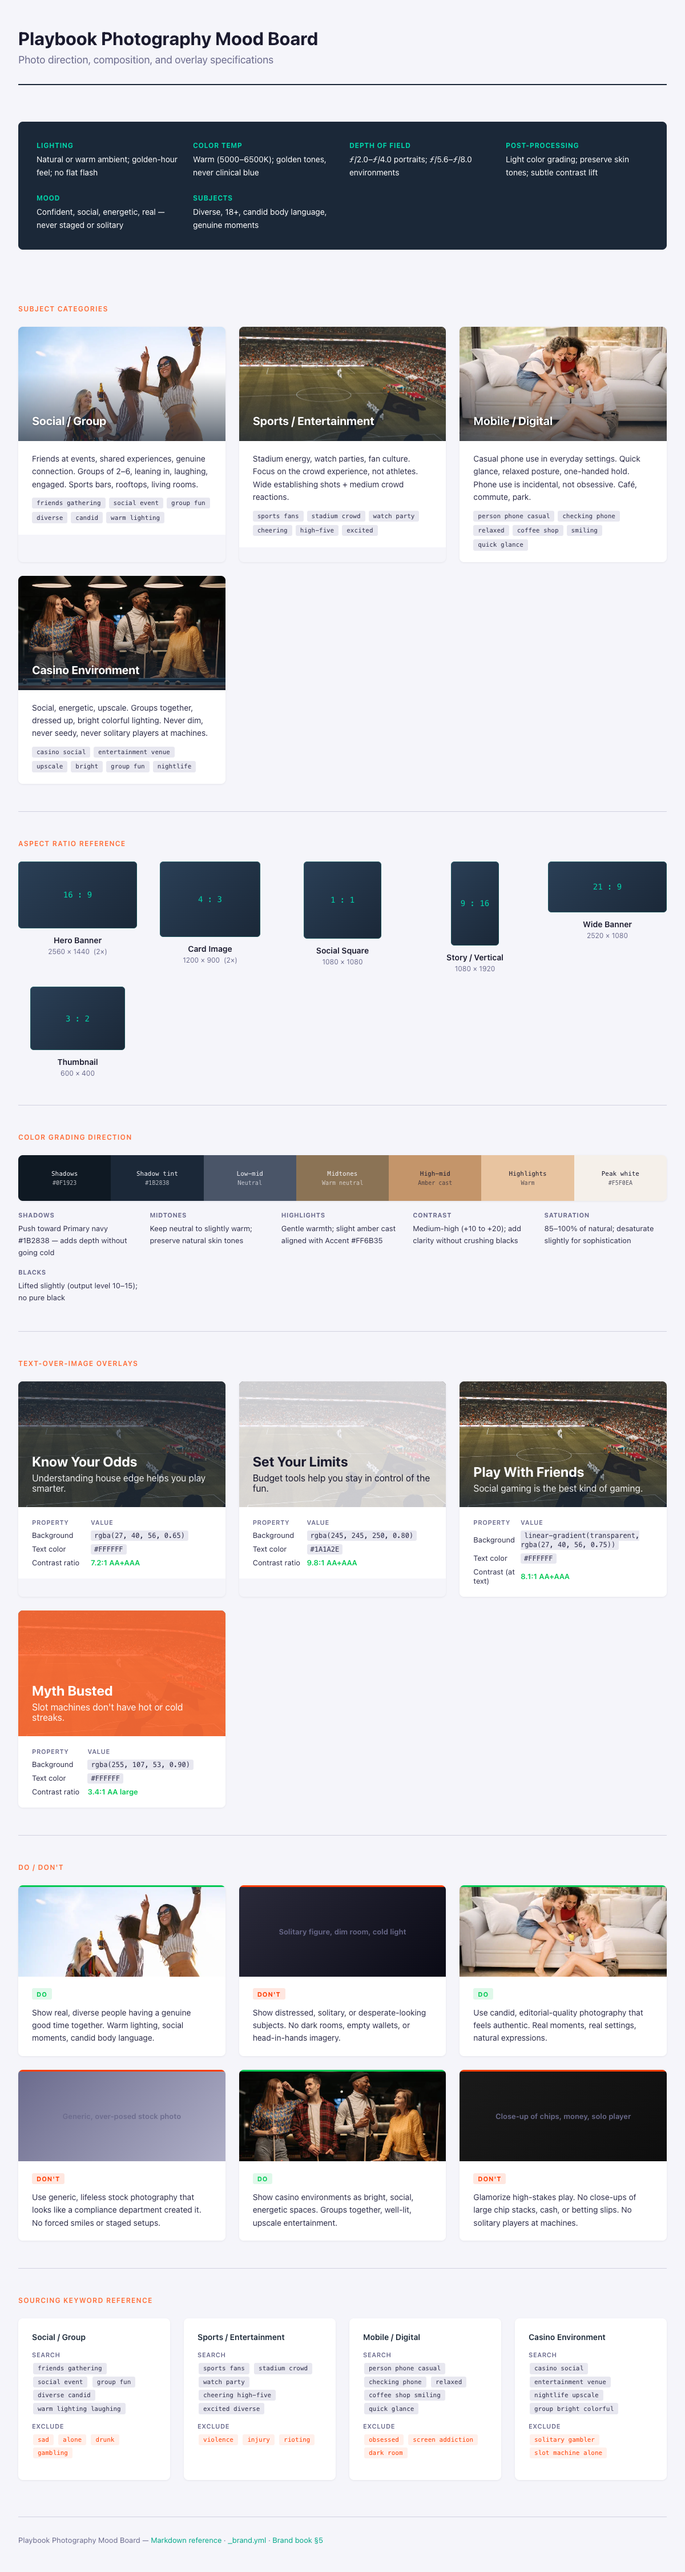
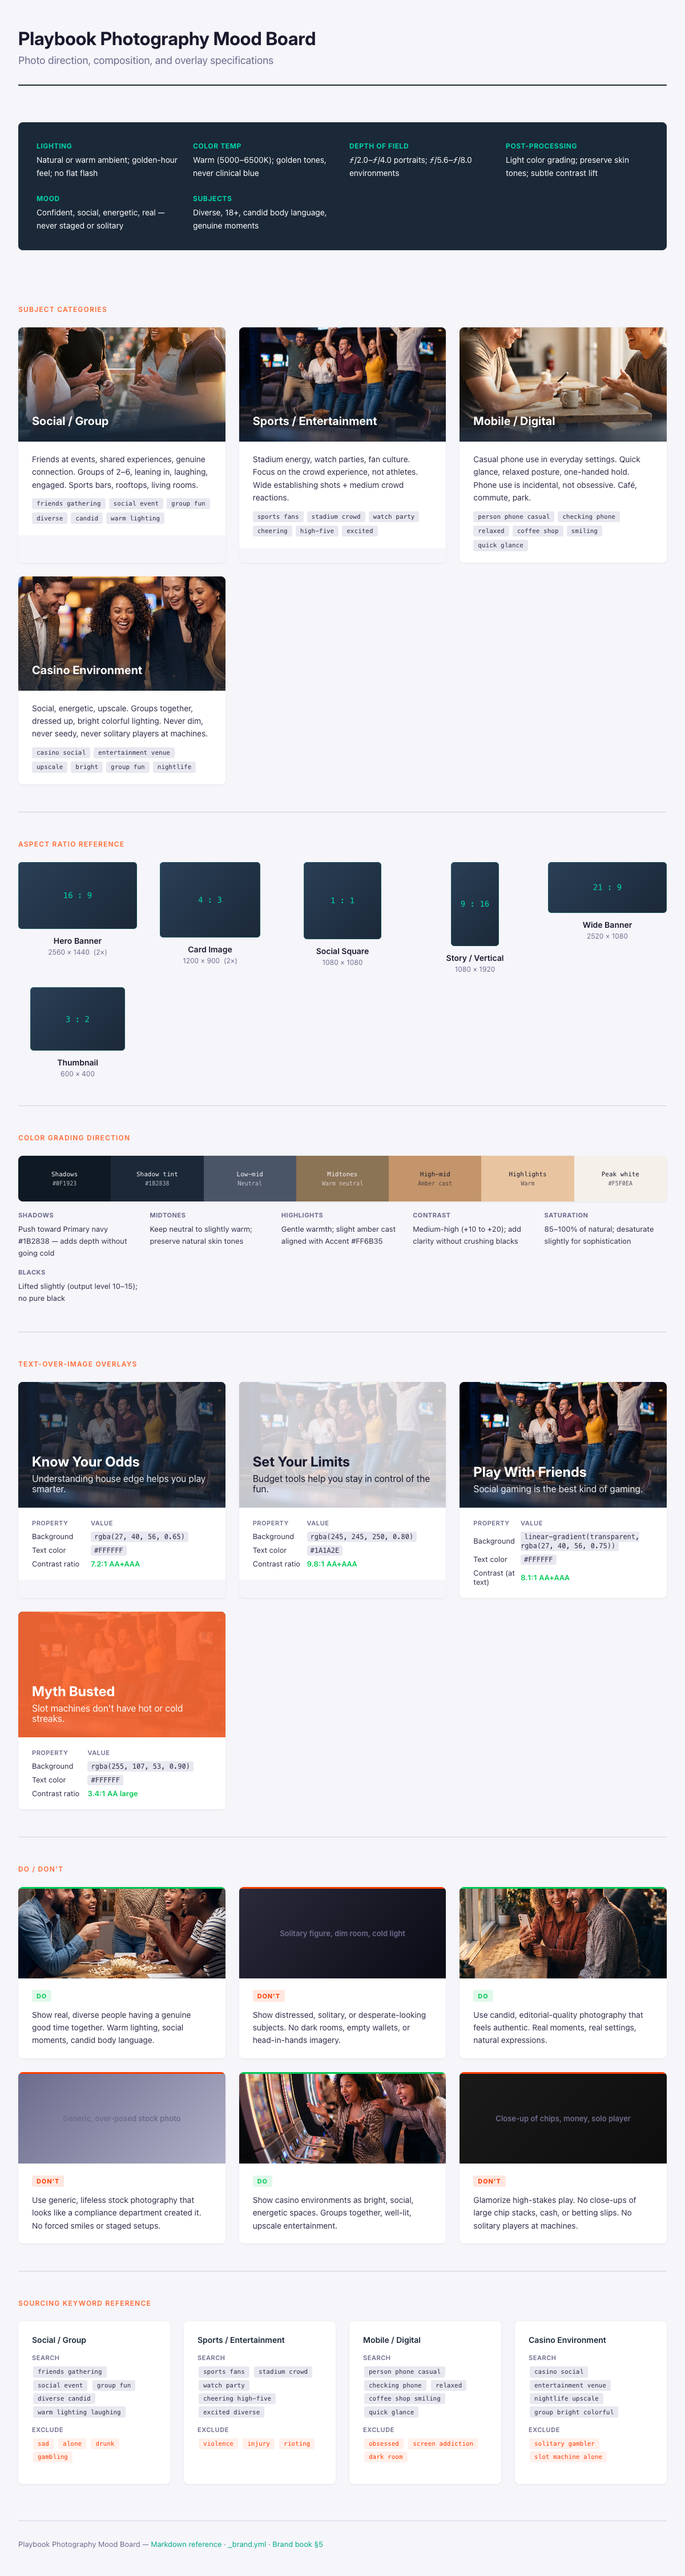
Replace stock reference imagery with owned generated examples
The photography guide's do/don't examples linked third-party Pexels stock,
which the repo neither controls nor licenses. Replace with AI-generated
images owned outright, art-directed to the spec itself.

- References are now controlled pairs: same scene, one variable changed
  (lighting intent; social vs. solitary framing), making each guideline the
  only difference between the good and bad example.
- Added a social-vs-solitary reference pair for the most important subject
  rule.
- mood-board.html now pulls category/overlay/do-card imagery from the owned
  19-series library instead of Pexels hotlinks.
- photography.md captions updated; references/PROMPTS.md documents every
  generation prompt so the set is reproducible and extendable on fork.

No stock licensing now applies to any imagery in the photography guide.

diff --git a/visual-identity/photography/mood-board.html b/visual-identity/photography/mood-board.html
@@ -168,16 +168,16 @@
       background: linear-gradient(to top, rgba(27, 40, 56, 0.7) 0%, transparent 60%);
     }
     .cat-social {
-      background-image: url('https://images.pexels.com/photos/5935207/pexels-photo-5935207.jpeg?auto=compress&cs=tinysrgb&w=800');
+      background-image: url('../../collateral/render/photos/poster-19g.jpg');
     }
     .cat-sports {
-      background-image: url('https://images.pexels.com/photos/3131405/pexels-photo-3131405.jpeg?auto=compress&cs=tinysrgb&w=800');
+      background-image: url('../../collateral/render/photos/poster-19c.jpg');
     }
     .cat-mobile {
-      background-image: url('https://images.pexels.com/photos/3764496/pexels-photo-3764496.jpeg?auto=compress&cs=tinysrgb&w=800');
+      background-image: url('../../collateral/render/photos/poster-19f.jpg');
     }
     .cat-casino {
-      background-image: url('https://images.pexels.com/photos/7404655/pexels-photo-7404655.jpeg?auto=compress&cs=tinysrgb&w=800');
+      background-image: url('../../collateral/render/photos/poster-19a.jpg');
     }
 
     /* ─── Aspect ratio reference ─────────────── */
@@ -250,7 +250,7 @@
       position: relative;
     }
     .overlay-demo-bg {
-      background: url('https://images.pexels.com/photos/3131405/pexels-photo-3131405.jpeg?auto=compress&cs=tinysrgb&w=800') center / cover no-repeat;
+      background: url('../../collateral/render/photos/poster-19c.jpg') center / cover no-repeat;
     }
 
     /* Dark overlay */
@@ -814,7 +814,7 @@
 
     <div class="dodont-grid">
       <div class="dodont-card dodont-do">
-        <div class="dodont-visual" style="background: url('https://images.pexels.com/photos/5935207/pexels-photo-5935207.jpeg?auto=compress&cs=tinysrgb&w=600') center / cover no-repeat;">
+        <div class="dodont-visual" style="background: url('../../collateral/render/photos/poster-19d.jpg') center / cover no-repeat;">
         </div>
         <div class="dodont-body">
           <span class="dodont-badge">Do</span>
@@ -833,7 +833,7 @@
       </div>
 
       <div class="dodont-card dodont-do">
-        <div class="dodont-visual" style="background: url('https://images.pexels.com/photos/3764496/pexels-photo-3764496.jpeg?auto=compress&cs=tinysrgb&w=600') center / cover no-repeat;">
+        <div class="dodont-visual" style="background: url('../../collateral/render/photos/poster-19b.jpg') center / cover no-repeat;">
         </div>
         <div class="dodont-body">
           <span class="dodont-badge">Do</span>
@@ -852,7 +852,7 @@
       </div>
 
       <div class="dodont-card dodont-do">
-        <div class="dodont-visual" style="background: url('https://images.pexels.com/photos/7404655/pexels-photo-7404655.jpeg?auto=compress&cs=tinysrgb&w=600') center / cover no-repeat;">
+        <div class="dodont-visual" style="background: url('../../collateral/render/photos/poster-19e.jpg') center / cover no-repeat;">
         </div>
         <div class="dodont-body">
           <span class="dodont-badge">Do</span>

diff --git a/visual-identity/photography/references/PROMPTS.md b/visual-identity/photography/references/PROMPTS.md
@@ -1,0 +1,52 @@
+# Photography Reference Prompts
+
+Every reference image in [`photography.md`](../photography.md) is AI-generated
+(Google `gemini-3-pro-image`, 4:3, 1K) and owned outright — no stock licensing.
+The do/don't examples are controlled pairs: the same scene with exactly one
+property changed (lighting intent, or social vs. solitary framing), so the
+guideline being taught is the only variable.
+
+To regenerate, rerun the prompt and save over the same filename.
+
+## cinematic-lighting-good.jpg
+
+```
+Documentary photograph of two friends — a man and a woman in their mid-thirties — standing at a row of modern slot machines in an upscale casino at night, seen from a three-quarter side angle, both laughing at something the man just said, fully engaged with each other and not with the camera. Strictly candid: nobody looks at the camera, nobody poses, this is not a portrait. Cinematic editorial lighting is the entire subject of this image: one clear warm directional key light models both faces, the environment falls away into colorful defocused bokeh, deliberate controlled contrast, perfectly exposed skin tones, warm 5500K grade with deep navy-tinted shadows and gently lifted blacks. Both clearly adults. No alcoholic drinks, no readable text, numbers, or logos anywhere.
+```
+
+## dim-lighting-bad.jpg
+
+```
+Documentary photograph of two friends — a man and a woman in their mid-thirties — standing at a row of slot machines in a casino at night, seen from a three-quarter side angle, chatting to each other, not looking at the camera. The same kind of scene a brand would want, but photographed badly on purpose: no key light at all, both faces underexposed and murky, flat uniform darkness with no visual hierarchy, muddy mixed fluorescent green-grey color cast on the skin, heavy high-ISO digital noise and softness, the dingy uncontrolled feel of a phone snapshot in a dark room. A plain casino slot aisle — no neon signs, no arcade games. Both clearly adults. No alcoholic drinks, no readable text, numbers, or logos anywhere.
+```
+
+## closeup-slot-interface-good.jpg
+
+```
+Clean, well-lit product-photography closeup of a modern video slot machine screen and button deck, showing colorful abstract reel symbols — gems, fruit shapes, stars, bells — with absolutely no letters, numbers, or words anywhere on the screen. Crisp purposeful detail, vibrant but controlled lighting, shallow depth of field with the interface in sharp focus. This is an educational detail image that explains what a slot interface looks like. Warm color grade, deep navy-tinted shadows, no people.
+```
+
+## closeup-cards-chips-good.jpg
+
+```
+Editorial closeup of two playing cards lying face down on green casino felt beside four or five scattered casino chips — deliberately few chips, no tall stacks, no cash. Warm directional light rakes across the felt texture, shallow depth of field, purposeful and calm. The card backs show a simple geometric pattern with no readable text or numbers. Educational detail image for explaining table games. Warm color grade, navy-tinted shadows, no people.
+```
+
+## slot-machines-filler-bad.jpg
+
+```
+A generic wide interior shot of a row of empty slot machines in a casino with no people anywhere in the frame. Competently exposed but completely purposeless: flat even lighting, no focal point, no human context, no story, sterile stock-photo atmosphere. The kind of decorative filler image a brand should never use. Screens show only vague colorful glows with no readable text, numbers, or logos.
+```
+
+## social-group-good.jpg
+
+```
+Four diverse friends gathered around a blackjack table in a warm upscale casino lounge, laughing together and engaged with each other more than with the game, one gesturing mid-story. Only a few low-denomination chips on the felt, no cash. Warm cinematic key light on their faces, colorful casino bokeh deep in the background. Candid editorial lifestyle photograph, full-frame camera, 50mm lens at f/2.8. Cinematic intentional lighting: a clear, warm directional key light on the subjects' faces, with the background falling away into soft bokeh. Warm color temperature around 5500K with golden amber highlights; shadows tinted toward deep navy blue; blacks gently lifted, never crushed; medium-high contrast; natural, well-exposed skin tones. Genuine candid documentary energy — real mid-laugh expressions, no one looking at the camera, nothing posed or corporate. All people are clearly adults in their late twenties to mid forties. No alcoholic drinks anywhere in the frame. No readable text, numbers, logos, or legible screen content anywhere in the frame.
+```
+
+## solitary-player-bad.jpg
+
+```
+A single person sitting alone at a slot machine in an otherwise empty casino corner late at night, photographed from a distance down the empty row of machines, neutral slumped posture, nobody else anywhere. Cool, slightly desaturated tones, dim flat light, an isolated and lonely stock-photo atmosphere — the solitary-gambler stereotype a brand should never use. Adult subject, no alcoholic drinks, no readable text, numbers, or logos anywhere.
+```
+
